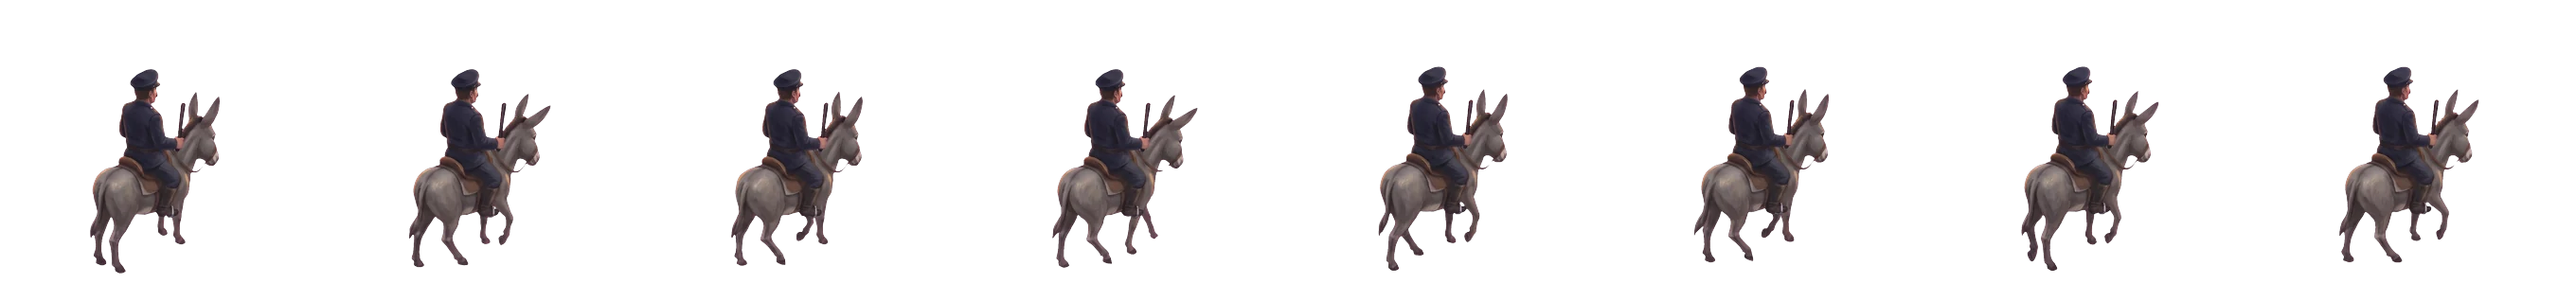
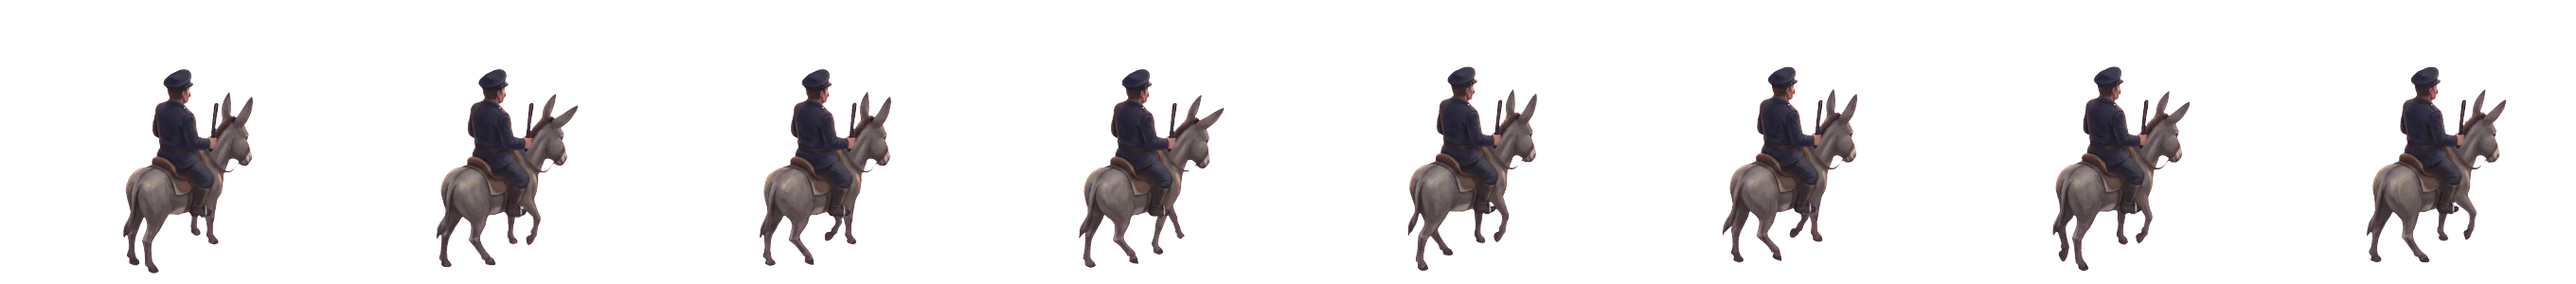
Keep the donkey facing the right way and out of Virgiliu
The donkey's walk sheets were centred on the rider, so the sprite
jumped and its head poked past Virgiliu when it switched to the attack
sheet. Both are now centred on the body, the donkey is wider and
strikes from further, and it can no longer stand inside him.

diff --git a/server/src/arena.ts b/server/src/arena.ts
@@ -48,7 +48,7 @@ const ENEMY_KINDS: Record<string, {
   cooldown: number; windup: number; knockback: number;
 }> = {
   cop: { health: 60, speed: 150, radius: 24, reach: 95, damage: 8, cooldown: 1300, windup: 260, knockback: 500 },
-  donkey: { health: 600, speed: 230, radius: 40, reach: 115, damage: 14, cooldown: 1500, windup: 300, knockback: 700 },
+  donkey: { health: 600, speed: 230, radius: 60, reach: 150, damage: 14, cooldown: 1500, windup: 300, knockback: 700 },
 };
 const ENEMY_STUN_MS = 300;
 const CHEST_LOOT = ["potion_mana", "potion_mana", "coins", "ring", "helmet", "pouch", "axe"];
@@ -618,6 +618,19 @@ export class Arena extends Room {
       enemy.x = object.x + (dx / distance) * minimum;
       enemy.z = object.y + (dz / distance) * minimum;
     }
+
+    /* Never stand inside a hero: the donkey's body keeps them apart. */
+    this.state.players.forEach((player) => {
+      if (!player.alive || player.area !== "city") return;
+      const dx = enemy.x - player.x;
+      const dz = enemy.z - player.z;
+      const distance = Math.hypot(dx, dz) || 0.001;
+      const minimum = stats.radius + PLAYER_RADIUS;
+
+      if (distance >= minimum) return;
+      enemy.x = player.x + (dx / distance) * minimum;
+      enemy.z = player.z + (dz / distance) * minimum;
+    });
 
     /* Barely moving while trying to walk means something is in the way: go round it for a moment. */
     const progress = Math.hypot(enemy.x - runtime.lastX, enemy.z - runtime.lastZ);

diff --git a/tools/build_art.py b/tools/build_art.py
@@ -93,7 +93,7 @@ def hero_sheet(name, out, count, scale, keep=None):
     sheet.save(f"{ART}/{out}.webp", quality=88, method=6)
 
 
-def grid_frames(name):
+def grid_frames(name, anchor="torso"):
     """Walk sheets are a 4 by 2 grid painted over motion-captured poses."""
     rgb = load(name)
     alpha = hero_alpha(rgb)
@@ -111,12 +111,16 @@ def grid_frames(name):
         ys, xs = np.where(main)
         top_y, bottom_y = ys.min(), ys.max() + 1
         torso = (ys > top_y + (bottom_y - top_y) * 0.15) & (ys < top_y + (bottom_y - top_y) * 0.5)
-        frames.append((rgb[top:bottom, left:right], main * alpha[top:bottom, left:right], float(np.median(xs[torso])), bottom_y))
+        center = float(np.median(xs[torso]))
+        if anchor == "body":
+            # A rider sits on the back of his mount: centre on the whole figure, like the attack sheets do.
+            center = float(np.median(xs[ys > top_y + (bottom_y - top_y) * 0.55]))
+        frames.append((rgb[top:bottom, left:right], main * alpha[top:bottom, left:right], center, bottom_y))
     return frames
 
 
-def walk_sheet(name, out, scale, replace_first):
-    frames = grid_frames(name)
+def walk_sheet(name, out, scale, replace_first, anchor="torso"):
+    frames = grid_frames(name, anchor)
     if replace_first:
         frames[0] = frames[4]
     baseline = np.median([frame[3] for frame in frames])
@@ -267,10 +271,11 @@ def enemies():
         walk = grid_frames(f"cop/{kind}_walk_front.png")[0]
         ys = np.where(walk[1] > 0.5)[0]
         walk_scale = height / (ys.max() - ys.min())
-        walk_sheet(f"cop/{kind}_walk_front.png", f"enemy_{kind}_walk_front", walk_scale, False)
+        anchor = "body" if kind == "donkey" else "torso"
+        walk_sheet(f"cop/{kind}_walk_front.png", f"enemy_{kind}_walk_front", walk_scale, False, anchor)
         back = grid_frames(f"cop/{kind}_walk_back.png")[0]
         ys = np.where(back[1] > 0.5)[0]
-        walk_sheet(f"cop/{kind}_walk_back.png", f"enemy_{kind}_walk_back", height / (ys.max() - ys.min()), False)
+        walk_sheet(f"cop/{kind}_walk_back.png", f"enemy_{kind}_walk_back", height / (ys.max() - ys.min()), False, anchor)
         slash_sheet(f"cop/{kind}_attack.png", f"enemy_{kind}_attack", height)
     # The worn-out rest was repainted over the donkey's attack sheet, so it shares its scale.
     recover = frames_of("cop/donkey_attack.png", 5)[3][1]
